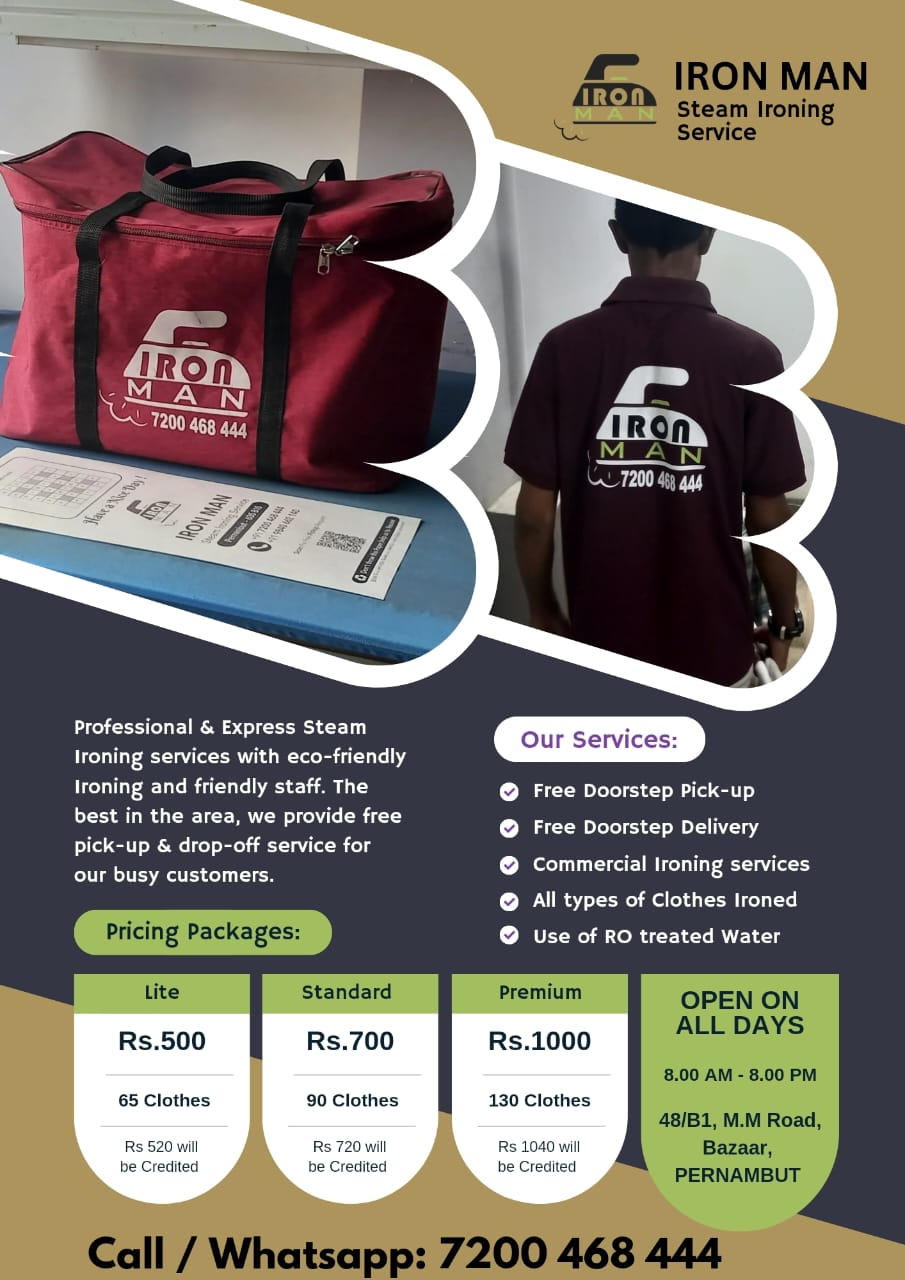
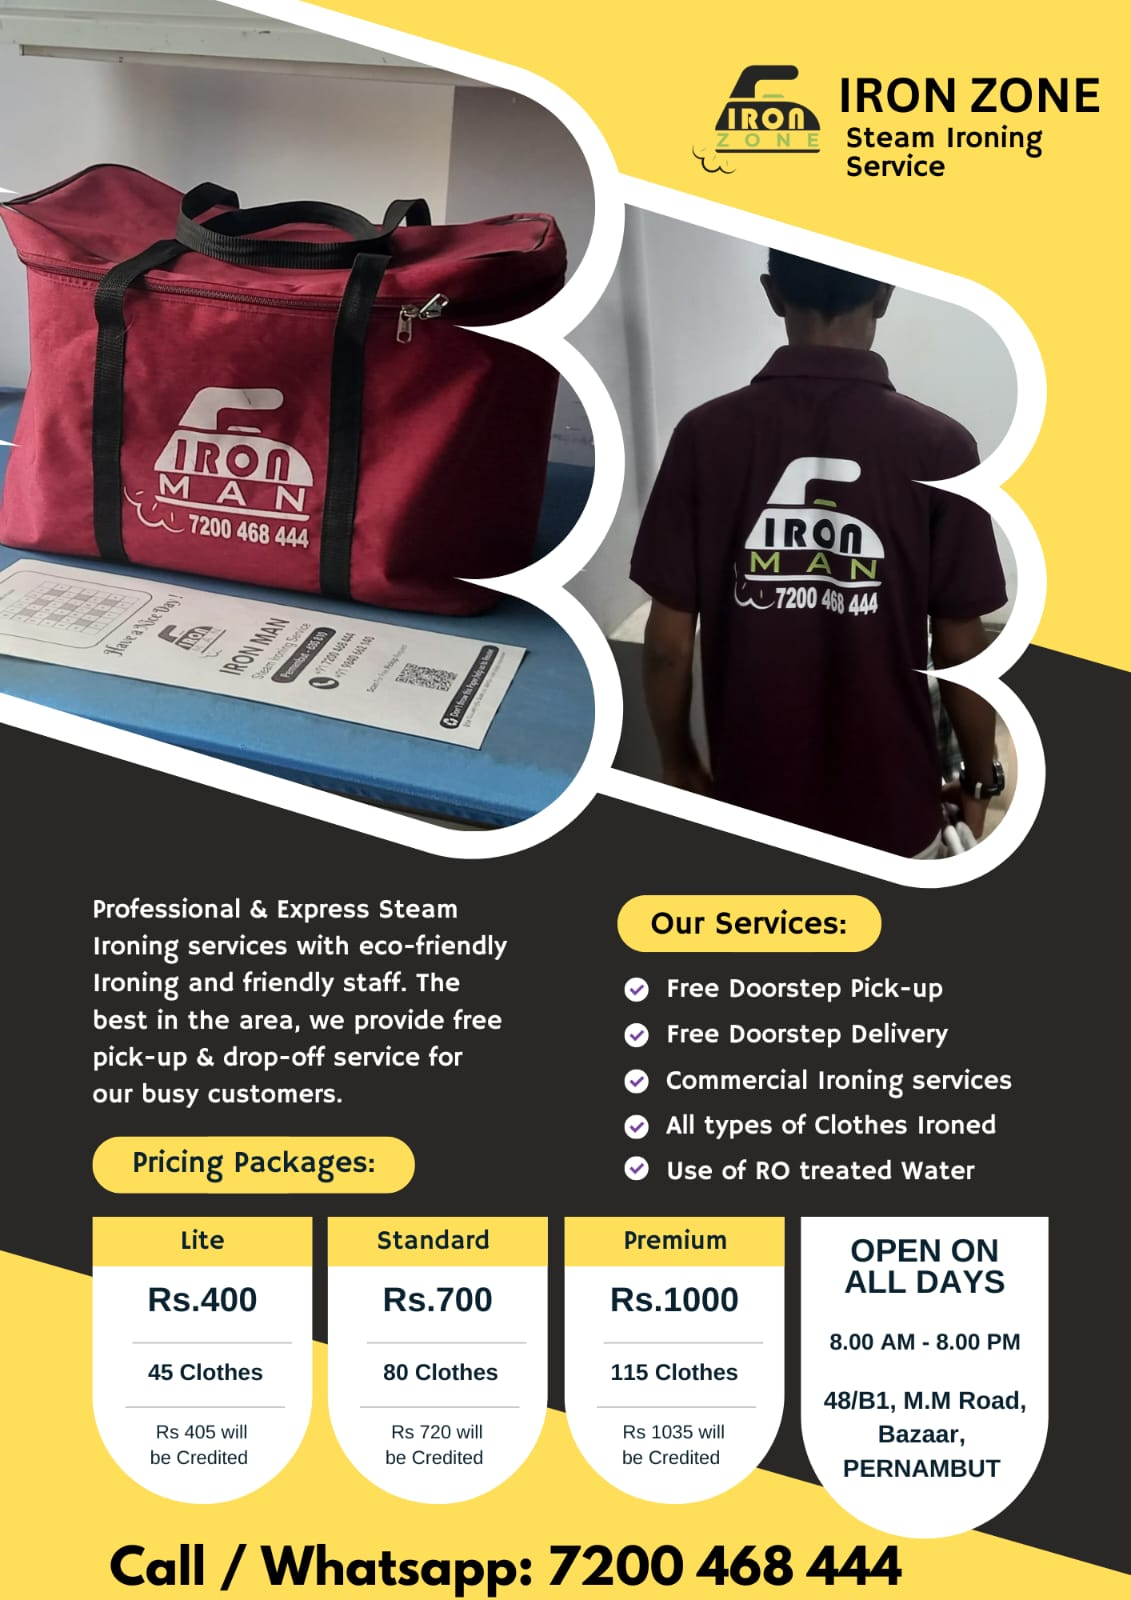
Fixed and SEO done

diff --git a/index.html b/index.html
@@ -50,9 +50,64 @@
   <link rel="preconnect" href="https://fonts.googleapis.com">
   <link rel="preconnect" href="https://fonts.gstatic.com" crossorigin>
   <link href="https://fonts.googleapis.com/css2?family=Inter:wght@300;400;500;600;700;800&display=swap" rel="stylesheet">
-  <title>IRONZONE - Professional Steam Ironing Services | Pernambut</title>
-  <meta name="description" content="Professional steam ironing services with FREE pickup & delivery in Pernambut. Crisp, wrinkle-free clothes with premium care for all fabrics.">
-  <link rel="icon" type="image/png" href="ironLogo.jpg">
+  <title>IRONZONE - Steam Ironing & Laundry Service in Pernambut | Free Pickup & Delivery</title>
+  <meta name="description" content="IRONZONE offers professional steam ironing and laundry services in Pernambut. Free pickup & delivery. Local, reliable, and fast. Book your ironing online!">
+  <meta name="keywords" content="steam ironing, laundry, Pernambut, ironing service, free pickup, delivery, professional, local, clothes, pressing, Tamil Nadu">
+  <meta property="og:title" content="IRONZONE - Steam Ironing & Laundry Service in Pernambut" />
+  <meta property="og:description" content="Professional steam ironing & laundry in Pernambut. Free pickup & delivery. Book online!" />
+  <meta property="og:type" content="website" />
+  <meta property="og:url" content="https://ironzone.in/" />
+  <meta property="og:image" content="https://ironzone.in/iron-steam-shirt.jpeg" />
+  <meta name="twitter:card" content="summary_large_image" />
+  <meta name="twitter:title" content="IRONZONE - Steam Ironing & Laundry Service in Pernambut" />
+  <meta name="twitter:description" content="Professional steam ironing & laundry in Pernambut. Free pickup & delivery. Book online!" />
+  <meta name="twitter:image" content="https://ironzone.in/iron-steam-shirt.jpeg" />
+  <link rel="apple-touch-icon" sizes="180x180" href="/apple-touch-icon.png">
+  <link rel="icon" type="image/png" sizes="32x32" href="/favicon-32x32.png">
+  <link rel="icon" type="image/png" sizes="16x16" href="/favicon-16x16.png">
+  <link rel="manifest" href="/site.webmanifest">
+  <script type="application/ld+json">
+  {
+    "@context": "https://schema.org",
+    "@type": "LocalBusiness",
+    "name": "IRONZONE Steam Ironing Services",
+    "image": "https://ironzone.in/iron-steam-shirt.jpeg",
+    "@id": "https://ironzone.in/",
+    "url": "https://ironzone.in/",
+    "telephone": "+91-7200468444",
+    "address": {
+      "@type": "PostalAddress",
+      "streetAddress": "48/A1, MM Road (Upstairs), Bazar",
+      "addressLocality": "Pernambut",
+      "addressRegion": "Tamil Nadu",
+      "postalCode": "635810",
+      "addressCountry": "IN"
+    },
+    "geo": {
+      "@type": "GeoCoordinates",
+      "latitude": 12.9345,
+      "longitude": 78.5912
+    },
+    "openingHoursSpecification": [{
+      "@type": "OpeningHoursSpecification",
+      "dayOfWeek": [
+        "Monday",
+        "Tuesday",
+        "Wednesday",
+        "Thursday",
+        "Friday",
+        "Saturday",
+        "Sunday"
+      ],
+      "opens": "08:00",
+      "closes": "21:00"
+    }],
+    "sameAs": [
+      "https://www.instagram.com/ironman_steamironing/",
+      "https://www.facebook.com/p/IRON-MAN-Steam-Ironing-100076565100651/"
+    ]
+  }
+  </script>
   <style>
     body {
       font-family: 'Inter', sans-serif;
@@ -105,7 +160,7 @@
 <body class="bg-bg-main text-text-primary">
   <nav class="flex items-center justify-between p-4 sm:p-5 fixed top-0 left-0 w-full bg-white z-50 shadow-sm backdrop-blur-sm bg-white/90">
     <div class="flex items-center">
-      <img src="iron.png" alt="logo" class="w-8 h-8 sm:w-10 sm:h-10 mr-2">
+      <img src="iron.png" alt="IRONZONE logo - Steam Ironing Service Pernambut" class="w-8 h-8 sm:w-10 sm:h-10 mr-2">
       <span class="font-bold text-lg hidden sm:inline-block">IRONZONE</span>
     </div>
 
@@ -139,7 +194,7 @@
     </div>
 
     <div class="flex items-center gap-3">
-      <a href="https://wa.link/qqs5cy" class="bg-black text-white px-3 sm:px-5 py-2 sm:py-3 text-sm sm:text-base rounded-full flex justify-end font-semibold hover:bg-accent transition-colors duration-300 shadow-sm">Book Now</a>
+      <a href="https://wa.me/917200468444?text=Hi%2C%20Booking%20a%20Pickup%20for%20Ironing%20from%20the%20website." class="bg-black text-white px-3 sm:px-5 py-2 sm:py-3 text-sm sm:text-base rounded-full flex justify-end font-semibold hover:bg-accent transition-colors duration-300 shadow-sm">Book Now</a>
     </div>
   </nav>
 
@@ -148,13 +203,13 @@
     <!-- Text Column -->
     <div class="flex-1 flex flex-col justify-center">
       <h1 class="font-extrabold tracking-tight">
-        <span class="text-5xl sm:text-6xl md:text-7xl text-accent block mb-2">PROFESSIONAL</span>
-        <span class="text-4xl sm:text-5xl md:text-7xl text-[#15290A] block">LAUNDRY & STEAM IRONING</span>
+        <span class="text-5xl sm:text-6xl md:text-7xl text-accent block mb-2">PERNAMBUT'S VERY OWN</span>
+        <span class="text-4xl sm:text-5xl md:text-7xl text-[#15290A] block">BUILT BY US, FOR US</span>
       </h1>
-      <p class="text-base sm:text-lg md:text-xl leading-relaxed mt-6 text-text-secondary max-w-xl">Professional care for all your garments with free pickup and delivery across Pernambut. Experience wrinkle-free perfection with every press.</p>
+      <p class="text-base sm:text-lg md:text-xl leading-relaxed mt-6 text-text-secondary max-w-xl">Made in Pernambut. For the People of Pernambut. We believe that looking professional changes how you feel and how you're seen. IRONZONE is more than a service — it's a movement to uplift our community, one ironed shirt at a time.</p>
 
       <div class="flex flex-wrap gap-3 sm:gap-4 mt-6 sm:mt-8">
-        <a href="https://wa.link/qqs5cy" class="bg-accent font-semibold text-white text-center flex items-center px-4 sm:px-6 py-3 sm:py-4 text-sm sm:text-base rounded-full hover:bg-primary transition-colors duration-300 shadow-elegant">
+        <a href="https://wa.me/917200468444?text=Hi%2C%20Booking%20a%20Pickup%20for%20Ironing%20from%20the%20website." class="bg-accent font-semibold text-white text-center flex items-center px-4 sm:px-6 py-3 sm:py-4 text-sm sm:text-base rounded-full hover:bg-primary transition-colors duration-300 shadow-elegant">
           <span class="mr-2">📲</span> Book via WhatsApp
         </a>
         <a href="tel:+917200468444" class="bg-black font-semibold text-white text-center flex items-center px-4 sm:px-6 py-3 sm:py-4 text-sm sm:text-base rounded-full hover:bg-primary-dark transition-colors duration-300 shadow-elegant">
@@ -165,8 +220,8 @@
 
     <!-- Image Column -->
     <div class="flex-1 flex items-center justify-center">
-      <div class="w-full max-w-xs sm:max-w-sm md:max-w-md lg:max-w-lg h-auto aspect-[4/5] bg-gradient-to-br from-gray-50 to-gray-100 rounded-2xl flex items-center justify-center text-6xl sm:text-8xl md:text-9xl shadow-elegant overflow-hidden">
-        👔
+      <div class="w-full bg-gradient-to-br from-gray-50 to-gray-100 rounded-2xl flex items-center justify-center text-6xl sm:text-8xl md:text-9xl shadow-elegant overflow-hidden">
+        <img src="iron-steam-shirt.jpeg" alt="Professional steam ironing shirt - IRONZONE Pernambut" class="">
       </div>
     </div>
   </div>
@@ -221,10 +276,10 @@
           <h3 class="text-lg sm:text-xl font-bold uppercase">Lite</h3>
         </div>
         <div class="p-5 sm:p-8 text-center">
-          <div class="text-3xl sm:text-4xl font-bold mb-2">₹500</div>
-          <p class="text-text-secondary mb-4 sm:mb-6">65 Clothes</p>
+          <div class="text-3xl sm:text-4xl font-bold mb-2">₹400</div>
+          <p class="text-text-secondary mb-4 sm:mb-6">45 Clothes</p>
           <div class="bg-accent/10 text-accent p-3 rounded-lg mb-4 sm:mb-6 font-medium text-sm sm:text-base">
-            ₹520 will be Credited
+            ₹405 will be Credited
           </div>
         </div>
       </div>
@@ -237,7 +292,7 @@
         </div>
         <div class="p-5 sm:p-8 text-center">
           <div class="text-3xl sm:text-4xl font-bold mb-2">₹700</div>
-          <p class="text-text-secondary mb-4 sm:mb-6">90 Clothes</p>
+          <p class="text-text-secondary mb-4 sm:mb-6">80 Clothes</p>
           <div class="bg-primary/10 text-primary p-3 rounded-lg mb-4 sm:mb-6 font-medium text-sm sm:text-base">
             ₹720 will be Credited
           </div>
@@ -251,9 +306,9 @@
         </div>
         <div class="p-5 sm:p-8 text-center">
           <div class="text-3xl sm:text-4xl font-bold mb-2">₹1000</div>
-          <p class="text-text-secondary mb-4 sm:mb-6">130 Clothes</p>
+          <p class="text-text-secondary mb-4 sm:mb-6">115 Clothes</p>
           <div class="bg-accent/10 text-accent p-3 rounded-lg mb-4 sm:mb-6 font-medium text-sm sm:text-base">
-            ₹1040 will be Credited
+            ₹1035 will be Credited
           </div>
         </div>
       </div>
@@ -315,7 +370,7 @@
         </table>
       </div>
       <div class="p-4 sm:p-6 border-t border-border-light bg-bg-main/30 text-center">
-        <a href="https://wa.link/qqs5cy" class="bg-accent font-semibold text-white px-4 sm:px-6 py-2 sm:py-3 text-sm sm:text-base rounded-full hover:bg-primary transition-colors duration-300 shadow-sm inline-flex items-center">
+        <a href="https://wa.me/917200468444?text=Hi%2C%20Booking%20a%20Pickup%20for%20Ironing%20from%20the%20website." class="bg-accent font-semibold text-white px-4 sm:px-6 py-2 sm:py-3 text-sm sm:text-base rounded-full hover:bg-primary transition-colors duration-300 shadow-sm inline-flex items-center">
           Book Now
         </a>
       </div>
@@ -509,11 +564,24 @@
               </div>
             </div>
           </div>
+          
+          <div class="mt-10">
+            <h3 class="text-lg font-semibold uppercase text-accent mb-6">Our Growth Vision</h3>
+            <div class="bg-accent/5 p-6 rounded-xl border border-accent/20">
+              <p class="text-text-secondary mb-4">Starting from our roots in Pernambut, we're excited to announce our expansion plans to serve more communities across the region.</p>
+              <div class="flex items-center gap-x-4">
+                <div class="p-1.5 bg-accent/20 rounded-full flex items-center justify-center">
+                  <svg xmlns="http://www.w3.org/2000/svg" class="w-4 h-4 fill-accent" viewBox="0 0 24 24"><path d="M12 2c5.514 0 10 4.486 10 10s-4.486 10-10 10-10-4.486-10-10 4.486-10 10-10zm0-2c-6.627 0-12 5.373-12 12s5.373 12 12 12 12-5.373 12-12-5.373-12-12-12zm-1.834 9.686l-4.166.575 3.032 2.914-.74 4.139 3.708-1.982 3.708 1.983-.74-4.139 3.032-2.915-4.166-.575-1.834-3.784-1.834 3.784z"/></svg>
+                </div>
+                <p class="text-text-secondary font-medium">Expansion plans in Ambur, Vaniyambadi, Gudiyatham and Surroundings</p>
+              </div>
+            </div>
+          </div>
         </div>
       
                   <div class="flex justify-center">
            <div class="w-full max-w-md h-auto aspect-[3/4] bg-white rounded-3xl flex items-center justify-center shadow-elegant border border-border-light overflow-hidden p-0">
-             <img src="poster.jpg" alt="IRONZONE Poster" class="w-full h-full object-cover rounded-3xl shadow-md border-none m-0">
+             <img src="poster.jpg" alt="IRONZONE Steam Ironing Poster - Pernambut" class="w-full h-full object-cover rounded-3xl shadow-md border-none m-0">
             </div>
           </div>
       </div>
@@ -525,7 +593,7 @@
     <div class="text-center">
       <h3 class="text-3xl md:text-4xl font-bold mb-6">🚚 FREE Pickup & Delivery in Pernambut!</h3>
       <p class="text-lg mb-8 text-text-secondary max-w-xl mx-auto">Limited time offer - Book your first service today</p>
-      <a href="https://wa.link/qqs5cy" class="bg-accent font-semibold text-white px-8 py-4 rounded-full hover:bg-primary transition-colors duration-300 shadow-elegant inline-flex items-center">
+      <a href="https://wa.me/917200468444?text=Hi%2C%20Booking%20a%20Pickup%20for%20Ironing%20from%20the%20website." class="bg-accent font-semibold text-white px-8 py-4 rounded-full hover:bg-primary transition-colors duration-300 shadow-elegant inline-flex items-center">
       <span class="mr-2">📲</span> Book via WhatsApp
     </a>
     </div>
@@ -564,7 +632,7 @@
       <span class="text-4xl mb-6 inline-block text-primary">💬</span>
       <h3 class="text-xl font-bold mb-4 text-primary-dark">WhatsApp</h3>
         <div class="text-text-secondary leading-relaxed">
-        <a href="https://wa.link/qqs5cy" class="text-primary font-semibold hover:text-accent transition-colors duration-300">Chat Now</a><br>
+        <a href="https://wa.me/917200468444?text=Hi%2C%20Booking%20a%20Pickup%20for%20Ironing%20from%20the%20website." class="text-primary font-semibold hover:text-accent transition-colors duration-300">Chat Now</a><br>
         Quick responses for bookings and inquiries
         </div>
       </div>
@@ -584,17 +652,14 @@
     
     <div class="grid grid-cols-1 md:grid-cols-3 gap-8 max-w-6xl mx-auto px-4">
       <div class="bg-white p-8 rounded-xl shadow-card card-hover">
-        <div class="w-20 h-20 bg-primary text-white flex items-center justify-center font-bold text-xl rounded-full mx-auto mb-6">RK</div>
-        
+        <div class="w-20 h-20 bg-primary text-white flex items-center justify-center font-bold text-xl rounded-full mx-auto mb-6">IK</div>
         <blockquote class="text-center mb-6">
-          <p class="text-text-secondary">"My shirts have never looked better! The service is reliable and the quality is consistently excellent. Highly recommend IRONZONE for anyone who values crisp, professional-looking clothes."</p>
-      </blockquote>
-    
+          <p class="text-text-secondary">"On-Time Pickup + Awesome Service + Priority Service When Required + Quick Delivery = Best Ironing Services Ever"</p>
+        </blockquote>
         <div class="text-center">
-          <p class="font-bold">Rajesh Kumar</p>
-          <p class="text-text-light text-sm">Regular Customer</p>
-    </div>
-
+          <p class="font-bold">Imran Khan</p>
+          <p class="text-text-light text-sm">Google Review</p>
+        </div>
         <div class="flex items-center justify-center gap-1 mt-4">
           <svg xmlns="http://www.w3.org/2000/svg" class="w-5 h-5 fill-yellow-500" viewBox="0 0 24 24"><path d="M12 .587l3.668 7.568 8.332 1.151-6.064 5.828 1.48 8.279-7.416-3.967-7.417 3.967 1.481-8.279-6.064-5.828 8.332-1.151z"/></svg>
           <svg xmlns="http://www.w3.org/2000/svg" class="w-5 h-5 fill-yellow-500" viewBox="0 0 24 24"><path d="M12 .587l3.668 7.568 8.332 1.151-6.064 5.828 1.48 8.279-7.416-3.967-7.417 3.967 1.481-8.279-6.064-5.828 8.332-1.151z"/></svg>
@@ -605,17 +670,14 @@
       </div>
     
       <div class="bg-white p-8 rounded-xl shadow-card card-hover">
-        <div class="w-20 h-20 bg-primary text-white flex items-center justify-center font-bold text-xl rounded-full mx-auto mb-6">PM</div>
-      
+        <div class="w-20 h-20 bg-primary text-white flex items-center justify-center font-bold text-xl rounded-full mx-auto mb-6">N</div>
         <blockquote class="text-center mb-6">
-          <p class="text-text-secondary">"As a working professional, IRONZONE saves me so much time. The free pickup and delivery is a game-changer, and my clothes always come back perfectly pressed."</p>
-      </blockquote>
-    
+          <p class="text-text-secondary">"service which helps us to ease work impressive with their work they do what they said means punctuality"</p>
+        </blockquote>
         <div class="text-center">
-          <p class="font-bold">Priya M.</p>
-          <p class="text-text-light text-sm">Office Worker</p>
-    </div>
-
+          <p class="font-bold">Nafinoor</p>
+          <p class="text-text-light text-sm">Google Review</p>
+        </div>
         <div class="flex items-center justify-center gap-1 mt-4">
           <svg xmlns="http://www.w3.org/2000/svg" class="w-5 h-5 fill-yellow-500" viewBox="0 0 24 24"><path d="M12 .587l3.668 7.568 8.332 1.151-6.064 5.828 1.48 8.279-7.416-3.967-7.417 3.967 1.481-8.279-6.064-5.828 8.332-1.151z"/></svg>
           <svg xmlns="http://www.w3.org/2000/svg" class="w-5 h-5 fill-yellow-500" viewBox="0 0 24 24"><path d="M12 .587l3.668 7.568 8.332 1.151-6.064 5.828 1.48 8.279-7.416-3.967-7.417 3.967 1.481-8.279-6.064-5.828 8.332-1.151z"/></svg>
@@ -626,17 +688,14 @@
       </div>
     
       <div class="bg-white p-8 rounded-xl shadow-card card-hover">
-        <div class="w-20 h-20 bg-primary text-white flex items-center justify-center font-bold text-xl rounded-full mx-auto mb-6">SK</div>
-      
+        <div class="w-20 h-20 bg-primary text-white flex items-center justify-center font-bold text-xl rounded-full mx-auto mb-6">MR</div>
         <blockquote class="text-center mb-6">
-          <p class="text-text-secondary">"I was hesitant to trust someone with my delicate sarees, but IRONZONE handles them with such care. The results are beautiful and the convenience is unbeatable."</p>
-      </blockquote>
-    
+          <p class="text-text-secondary">"I've been using IRON MAN for a while now, and their service has never disappointed me. They are incredibly professional and the results are always outstanding. My dresses come back looking flawless and I appreciate their expertise in handling delicate fabrics."</p>
+        </blockquote>
         <div class="text-center">
-          <p class="font-bold">Sangeetha K.</p>
-          <p class="text-text-light text-sm">Homemaker</p>
+          <p class="font-bold">Mohammed Raza Shabie</p>
+          <p class="text-text-light text-sm">Google Review</p>
         </div>
-      
         <div class="flex items-center justify-center gap-1 mt-4">
           <svg xmlns="http://www.w3.org/2000/svg" class="w-5 h-5 fill-yellow-500" viewBox="0 0 24 24"><path d="M12 .587l3.668 7.568 8.332 1.151-6.064 5.828 1.48 8.279-7.416-3.967-7.417 3.967 1.481-8.279-6.064-5.828 8.332-1.151z"/></svg>
           <svg xmlns="http://www.w3.org/2000/svg" class="w-5 h-5 fill-yellow-500" viewBox="0 0 24 24"><path d="M12 .587l3.668 7.568 8.332 1.151-6.064 5.828 1.48 8.279-7.416-3.967-7.417 3.967 1.481-8.279-6.064-5.828 8.332-1.151z"/></svg>
@@ -702,7 +761,7 @@
               <div class="bg-white p-1.5 rounded-full shadow-sm">
                 <svg xmlns="http://www.w3.org/2000/svg" class="w-4 h-4 fill-accent" viewBox="0 0 24 24"><path d="M12.031 6.172c-3.181 0-5.767 2.586-5.768 5.766-.001 1.298.38 2.27 1.019 3.287l-.582 2.128 2.182-.573c.978.58 1.911.928 3.145.929 3.178 0 5.767-2.587 5.768-5.766.001-3.187-2.575-5.77-5.764-5.771zm3.392 8.244c-.144.405-.837.774-1.17.824-.299.045-.677.063-1.092-.069-.252-.08-.575-.187-.988-.365-1.739-.751-2.874-2.502-2.961-2.617-.087-.116-.708-.94-.708-1.793s.448-1.273.607-1.446c.159-.173.346-.217.462-.217l.332.006c.106.005.249-.04.39.298.144.347.491 1.2.534 1.287.043.087.072.188.014.304-.058.116-.087.188-.173.289l-.26.304c-.087.086-.177.18-.076.354.101.174.449.741.964 1.201.662.591 1.221.774 1.394.86s.274.072.376-.043c.101-.116.433-.506.549-.68.116-.173.231-.145.39-.087s1.011.477 1.184.564.289.13.332.202c.045.072.045.419-.1.824zm-3.423-14.416c-6.627 0-12 5.373-12 12s5.373 12 12 12 12-5.373 12-12-5.373-12-12-12zm.029 18.88c-1.161 0-2.305-.292-3.318-.844l-3.677.964.984-3.595c-.607-1.052-.927-2.246-.926-3.468.001-3.825 3.113-6.937 6.937-6.937 1.856.001 3.598.723 4.907 2.034 1.31 1.311 2.031 3.054 2.03 4.908-.001 3.825-3.113 6.938-6.937 6.938z"/></svg>
               </div>
-              <a href="https://wa.link/qqs5cy" class="text-text-secondary hover:text-accent transition-colors duration-300">Chat on WhatsApp</a>
+              <a href="https://wa.me/917200468444?text=Hi%2C%20Booking%20a%20Pickup%20for%20Ironing%20from%20the%20website." class="text-text-secondary hover:text-accent transition-colors duration-300">Chat on WhatsApp</a>
             </li>
           </ul>
         </div>
